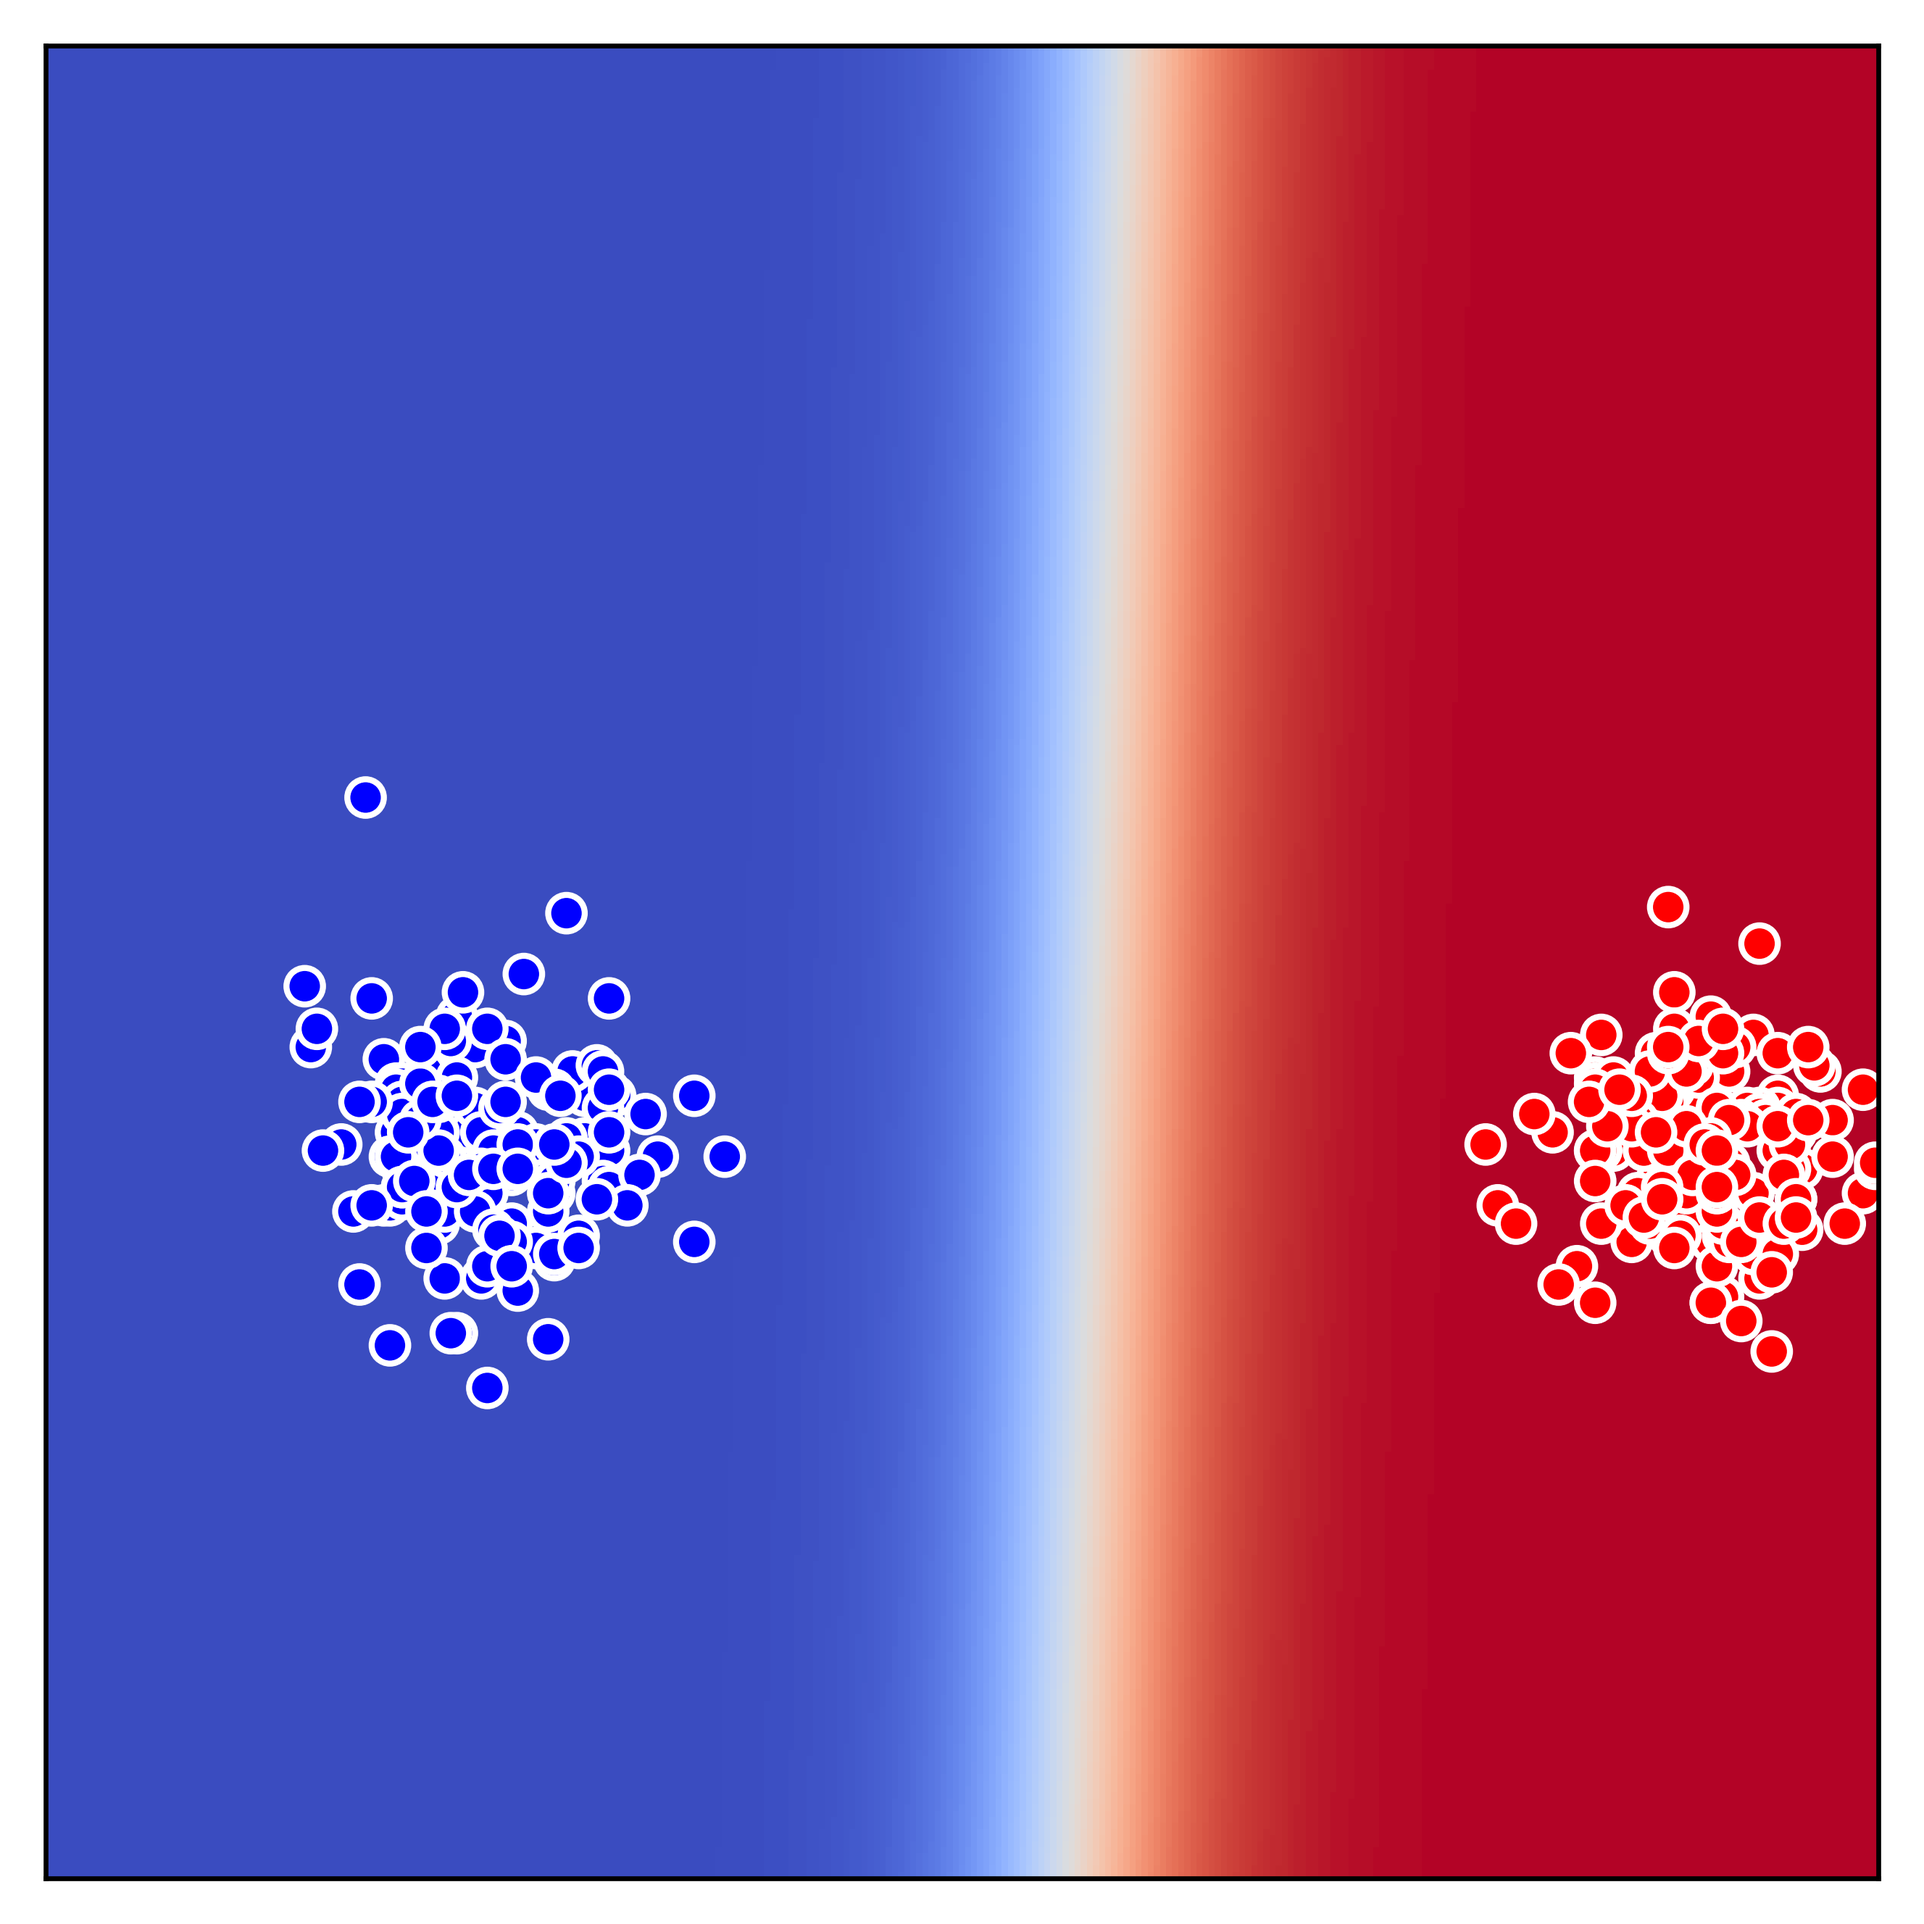
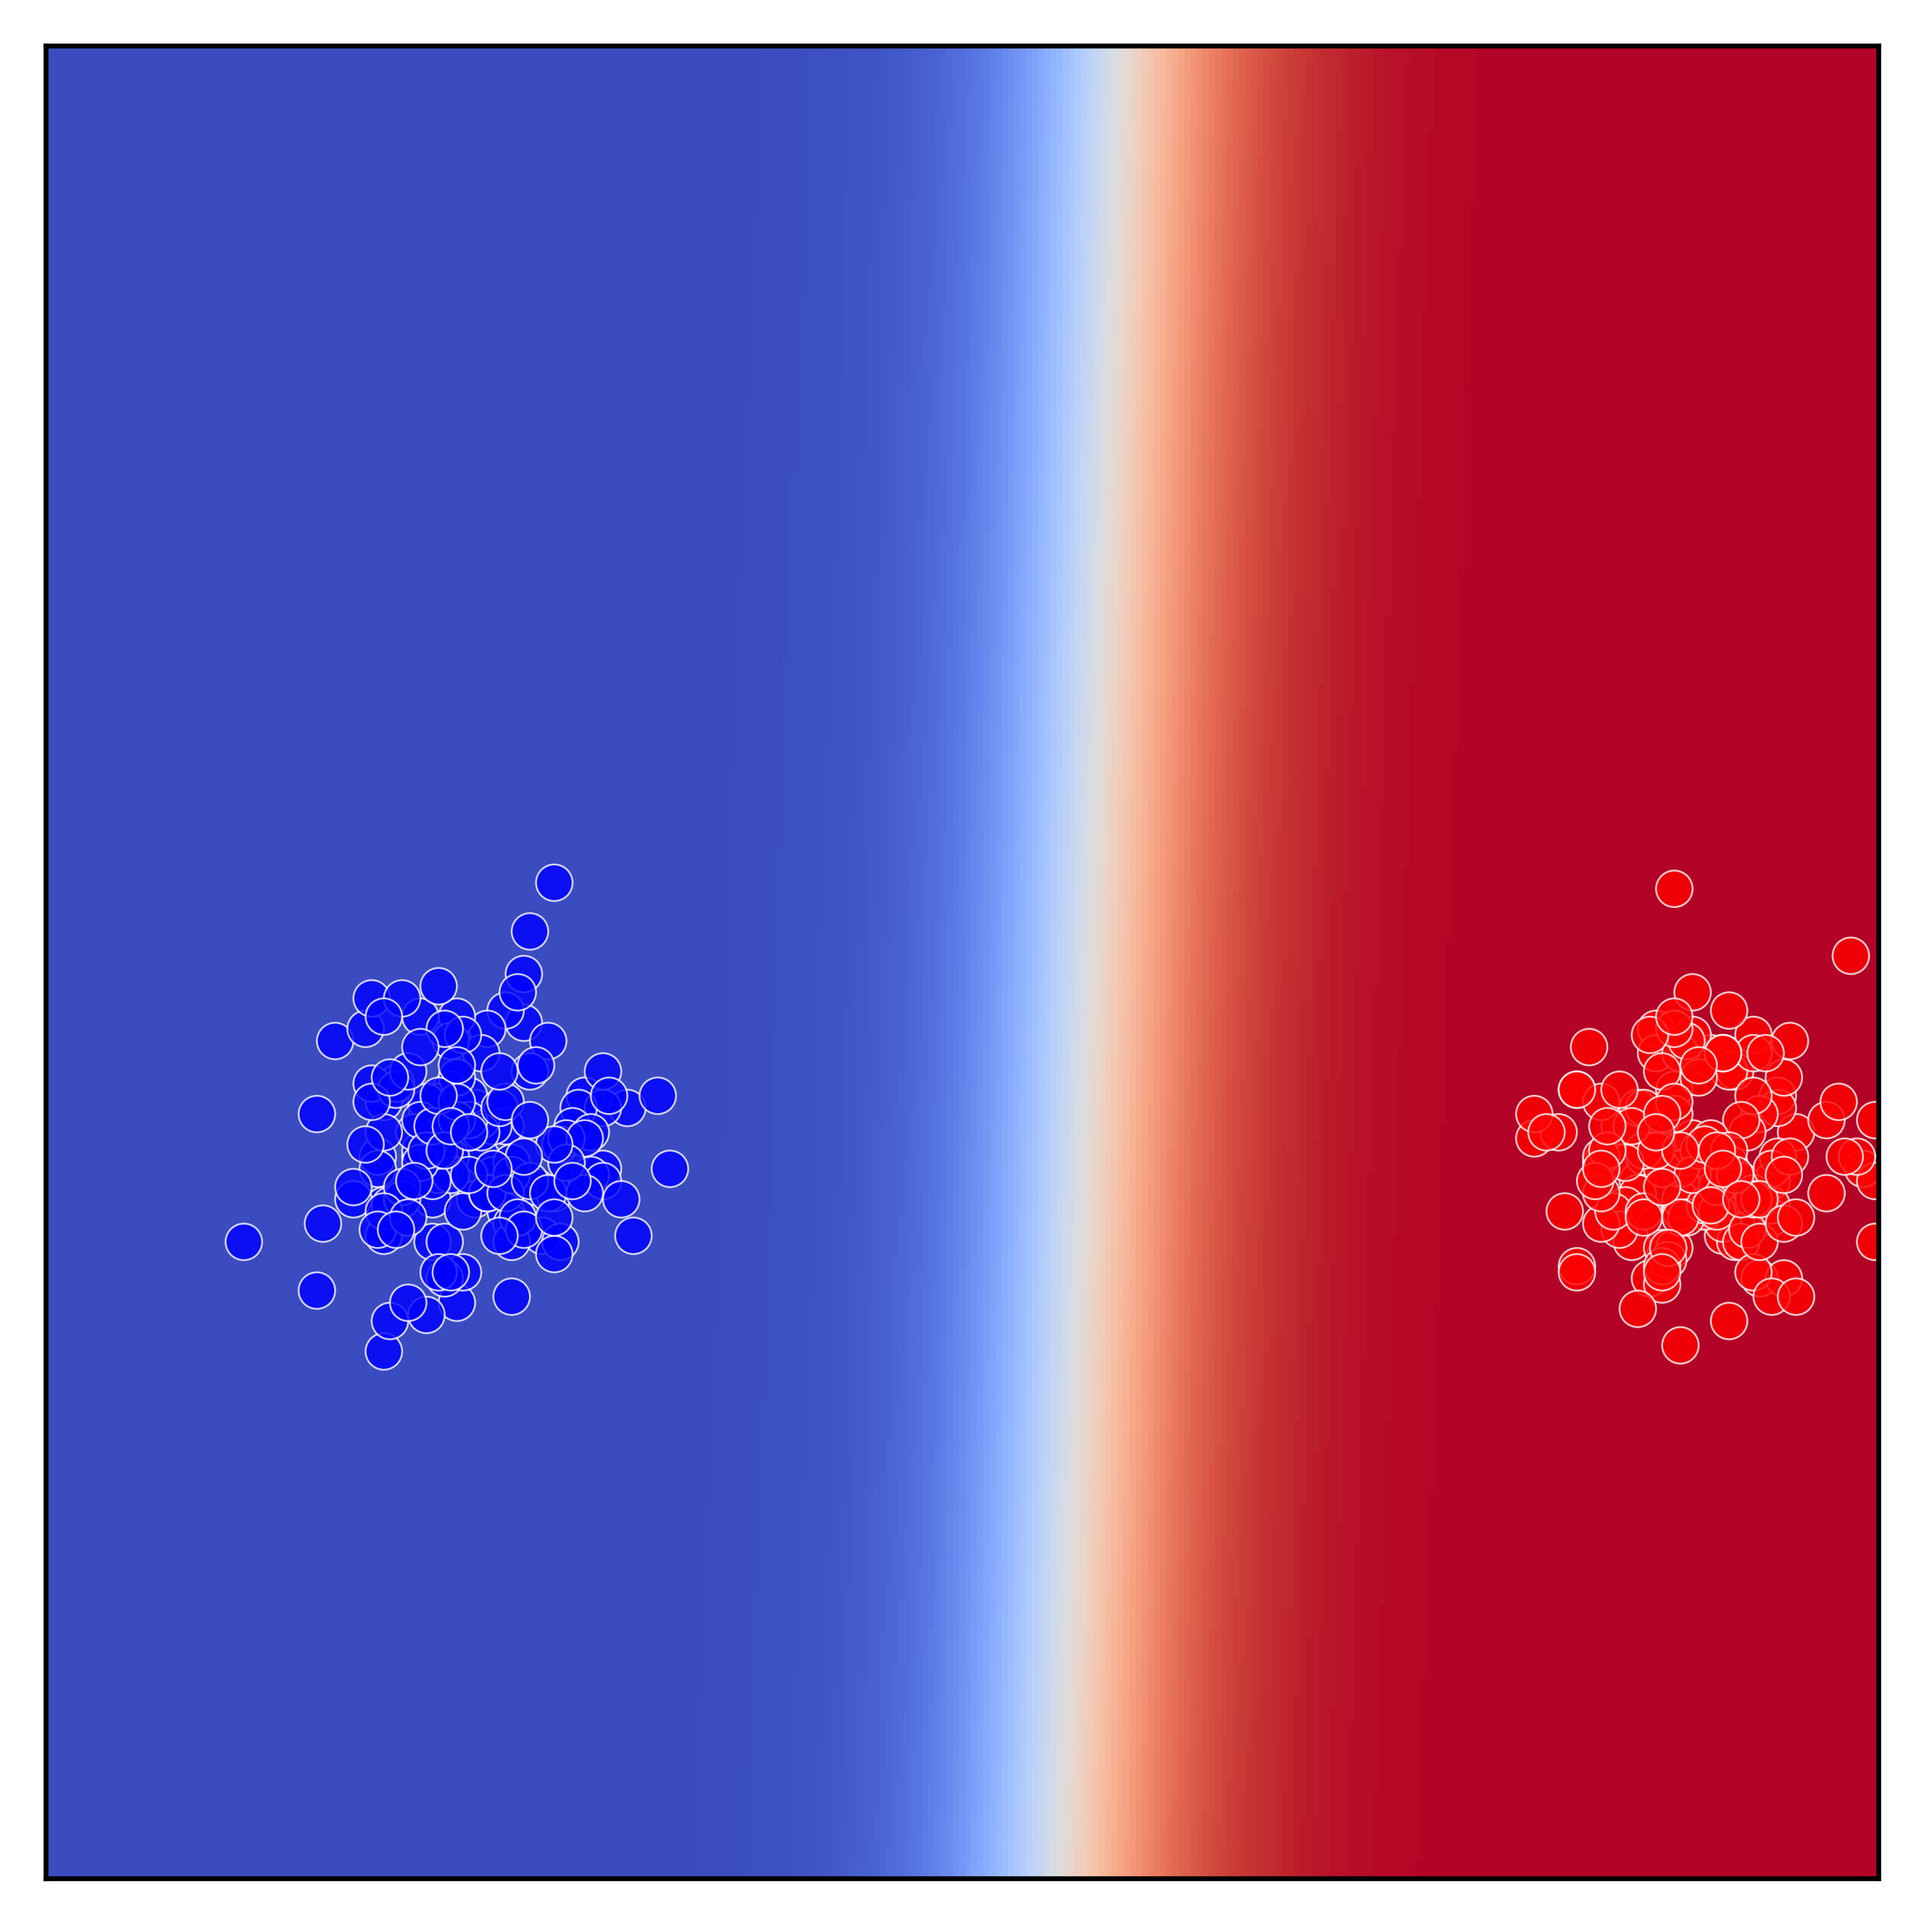
Update plottings

diff --git a/model/plotting.py b/model/plotting.py
@@ -80,9 +80,9 @@ def plot_decision_boundary(model, X_, Y_, epoch, mode):
             if j < x[1]:
                 break
         if y == 0:
-            ax.add_patch(Circle((col_idx, row_idx), 3, fill=True, facecolor='b', edgecolor='w'))
+            ax.add_patch(Circle((col_idx, row_idx), 3, fill=True, facecolor='b', edgecolor='w', linewidth=0.3, alpha=0.8))
         else:
-            ax.add_patch(Circle((col_idx, row_idx), 3, fill=True, facecolor='r', edgecolor='w'))
+            ax.add_patch(Circle((col_idx, row_idx), 3, fill=True, facecolor='r', edgecolor='w', linewidth=0.3, alpha=0.8))
 
     im = ax.imshow(colors, cmap='coolwarm')
 
